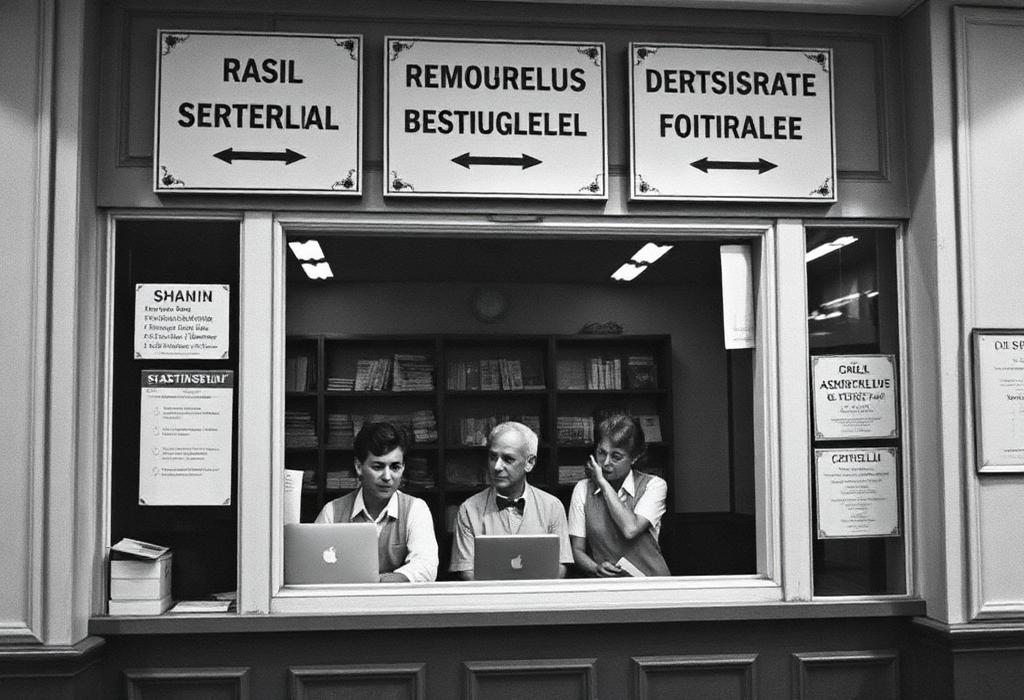
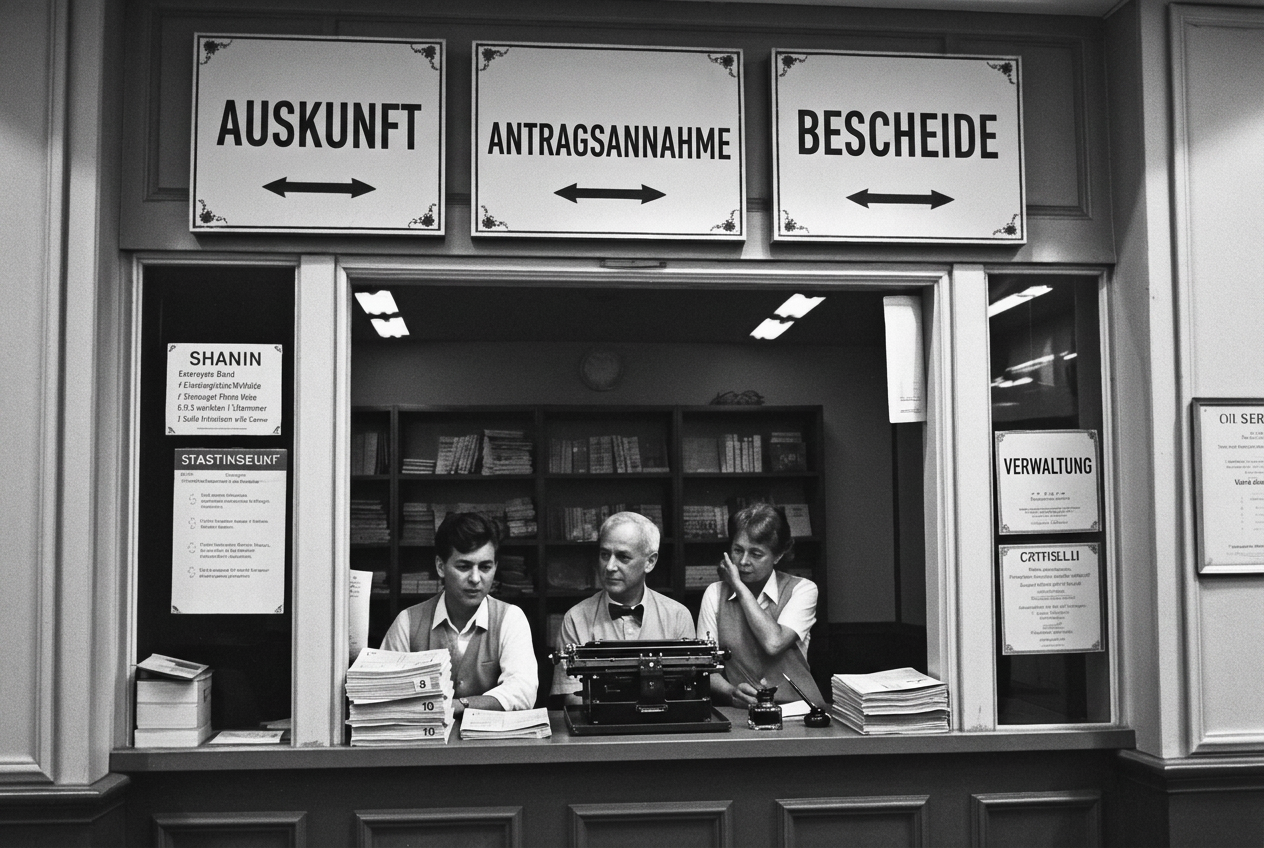
Changes

diff --git a/src/game/books/libraryBooks.ts b/src/game/books/libraryBooks.ts
@@ -21,6 +21,9 @@ import imgWirtMandat from "@/assets/books/wirt-mandat.jpg";
 import imgAutoWankel from "@/assets/books/auto-wankel.jpg";
 import imgAutoSerie72 from "@/assets/books/auto-serie72.jpg";
 import imgAutoDesign90 from "@/assets/books/auto-design90.jpg";
+import imgSpracheFormular from "@/assets/books/sprache-formular.jpg";
+import imgSpracheSchalter from "@/assets/books/sprache-schalter.jpg";
+import imgSpracheJugend from "@/assets/books/sprache-jugend.jpg";
 import { registerBook, type BookUiText } from "./index";
 
 const LIBRARY_UI_TEXT: BookUiText = {
@@ -557,6 +560,98 @@ registerBook({
   blurb:
     "Wie der Rotationskolbenmotor vom Sorgenkind zum Weltstandard wurde: Keramik-Dichtleisten, Schichteinspritzung, die Ölkrise als Rückenwind — und was kleine Motoren mit Karosserien anstellen.",
   chapters: autoChapters,
+  uiText: LIBRARY_UI_TEXT,
+  locationHint: "Bewohnerbibliothek 1101, Gebäude E71",
+  lendable: true,
+});
+
+const spracheChapters: HandbookChapter[] = [
+  {
+    id: "spr-vorwort",
+    shortTitle: "Vorwort",
+    title: "Vorwort: Eine Sprache, die aus Formularen kommt",
+    body: [
+      "Sprachen entstehen selten dort, wo man sie vermutet. Nicht in Gedichten, nicht auf Bühnen, nicht in Schulen. Das Deutsch, das im Mandatsgebiet gesprochen wird, ist an Schaltern entstanden, in Wartebereichen, in Kopierstellen und in Aktenkellern.",
+      "Man nennt es Mandatsdeutsch. Der Ausdruck war lange spöttisch gemeint. Ich verwende ihn ohne Spott. Was hier gewachsen ist, hat eine eigene Grammatik, ein eigenes Wortfeld und einen eigenen Höflichkeitsapparat, und es funktioniert.",
+      "Dieses Buch beschreibt, was gesprochen wird, nicht was gesprochen werden sollte. Wer eine Empfehlung sucht, welche Wendung korrekt sei, wird enttäuscht sein. Ich verzeichne, ich urteile nicht.",
+    ],
+  },
+  {
+    id: "spr-herkunft",
+    image: imgSpracheSchalter,
+    imageCaption: "Abb. 1 — Schalterhalle einer Bezirksstelle, um 1957",
+    shortTitle: "Herkunft",
+    title: "Kapitel I: Vier Amtssprachen an einem Tresen",
+    body: [
+      "Nach der Einrichtung der Verwaltung arbeiteten in denselben Häusern Beamte aus vier Sprachräumen nebeneinander. Vorschriften wurden in mehreren Fassungen ausgegeben, Vordrucke aber nur einmal gedruckt — und zwar in der Sprache, die vor Ort am meisten Leute lasen.",
+      "Deutsch wurde so zur Trägersprache des Schriftverkehrs. Die Begriffe darin kamen aus allen vier Verwaltungen. Wer ein Formular ausfüllte, übernahm die Wörter, die darauf standen, ohne sie zu übersetzen. Nach zwei Jahrzehnten sprachen die Leute so.",
+      "Der Sprachwandel verlief deshalb ungewöhnlich: nicht von der Straße in die Ämter, sondern von den Ämtern auf die Straße.",
+    ],
+  },
+  {
+    id: "spr-lehnwoerter",
+    image: imgSpracheFormular,
+    imageCaption: "Abb. 2 — Vordruck mit Feldbezeichnungen, Bezirksdruckerei",
+    shortTitle: "Lehnwörter",
+    title: "Kapitel II: Woher die Wörter stammen",
+    body: [
+      "Aus dem Französischen stammen die Wörter der Ordnung und der Zuständigkeit: das Ressort, die Instanz, das Dossier, das Bureau, die Kontrolle, der Bescheid „en règle“ — im Mandatsdeutsch verkürzt zu „ongregel“, geschrieben meist „in Regel“.",
+      "Aus dem Russischen kamen die Wörter der Zuteilung und des Bestands: das Kontingent (kontingjent, betont auf der letzten Silbe), der Naryad — der Zuteilungsschein —, und das verbreitete „Sprawka“ für jede Bescheinigung, die man vorlegen muss, um eine andere zu bekommen.",
+      "Aus dem Englischen kamen die Wörter der Abläufe: der Vorgang heißt in vielen Häusern schlicht „Case“, die Bearbeitungsspur „Track“, der abgeschlossene Fall ist „gecleart“.",
+      "Kaum jemand empfindet diese Wörter noch als fremd. „Reich mir mal die Sprawka“ sagt man auch zu Hause, wenn der Impfnachweis gemeint ist.",
+    ],
+  },
+  {
+    id: "spr-grammatik",
+    shortTitle: "Grammatik",
+    title: "Kapitel III: Die Grammatik der Unzuständigkeit",
+    body: [
+      "Auffälliger als die Wörter ist der Satzbau. Mandatsdeutsch vermeidet den Handelnden. Nicht „ich lehne ab“, sondern „es ergeht Ablehnung“. Nicht „Sie haben etwas vergessen“, sondern „die Unterlage liegt nicht vor“.",
+      "Man kann das für Feigheit halten. Zutreffender ist: Der Sprecher am Schalter hat den Bescheid nicht gefasst und kann ihn nicht ändern. Die Sprache bildet diese Lage genau ab.",
+      "Daraus folgt eine zweite Eigenart, die Fremde regelmäßig irritiert: die dreistufige Höflichkeit. „Das wäre möglich“ heißt: es geht. „Das ließe sich prüfen“ heißt: es geht wahrscheinlich nicht, aber Sie dürfen einen Antrag stellen. „Das ist nicht vorgesehen“ heißt: hören Sie auf.",
+      "Wer diese drei Stufen nicht unterscheidet, verbringt Jahre in Wartebereichen.",
+    ],
+  },
+  {
+    id: "spr-jugend",
+    image: imgSpracheJugend,
+    imageCaption: "Abb. 3 — Jugendliche vor einem Wohnblock, Sektor 14",
+    shortTitle: "Jugend",
+    title: "Kapitel IV: Was die Jungen daraus machen",
+    body: [
+      "Die Kinder derer, die das Mandatsdeutsch am Schalter lernten, sprechen es lockerer und respektloser. Sie verwenden dieselben Wörter, aber im Alltag und mit umgekehrtem Vorzeichen.",
+      "„Bist du in Regel?“ heißt: Geht es dir gut? „Ich hab keine Sprawka dafür“ heißt: Ich kann es nicht beweisen, glaub es einfach. Und wer jemanden abweisen will, sagt „nicht vorgesehen“ und lacht dabei.",
+      "Besonders produktiv ist die Vorsilbe „an-“ aus dem Formularwesen: anmelden, anzeigen, anhören — daraus wurde „anquatschen“ für ein Gespräch, das man ohne Termin beginnt, und „angeben“ im Sinne von: jemandem etwas erzählen, das im Protokoll schlecht aussähe.",
+      "Die Verwaltung hat, ohne es zu wollen, den Jargon einer ganzen Generation geliefert.",
+    ],
+  },
+  {
+    id: "spr-anhang",
+    shortTitle: "Anhang",
+    title: "Anhang: Kleines Verzeichnis",
+    body: [
+      "Sprawka — jede Bescheinigung, die Voraussetzung für eine weitere ist.",
+      "Naryad — Zuteilungsschein für Material, Wohnraum, Arbeitszeit.",
+      "Kontingjent — bewilligte Menge innerhalb eines Zeitraums.",
+      "Case — Vorgang; das Aktenzeichen heißt „Casenummer“, auch schriftlich.",
+      "in Regel — formal einwandfrei; umgangssprachlich auch: gesund, in Ordnung.",
+      "Dossier — Sammelakte zu einer Person oder Sache.",
+      "es ergeht — unpersönliche Form für jede Entscheidung, die zugestellt wird.",
+      "nicht vorgesehen — höchste Ablehnungsstufe; kein Widerspruch erwartet.",
+      "vorbehaltlich — der häufigste Bestandteil aller Zusagen im Mandatsgebiet.",
+    ],
+  },
+];
+
+registerBook({
+  id: "mandatsdeutsch",
+  title: "Mandatsdeutsch — Wie am Schalter eine Sprache entstand",
+  subtitle: "Dr. phil. A. Ternes · 1993 · Bewohnerbibliothek E71",
+  author: "Dr. phil. A. Ternes",
+  year: "1993",
+  blurb:
+    "Eine Sprachbeschreibung des Verwaltungsdeutschen: woher seine Lehnwörter stammen, warum es den Handelnden vermeidet und was Jugendliche heute daraus machen.",
+  chapters: spracheChapters,
   uiText: LIBRARY_UI_TEXT,
   locationHint: "Bewohnerbibliothek 1101, Gebäude E71",
   lendable: true,

diff --git a/src/game/libraryE71Books.ts b/src/game/libraryE71Books.ts
@@ -81,6 +81,16 @@ export const LIBRARY_BOOKS: LibraryBook[] = [
     itemId: "buchDrehendeDreieck",
     itemName: "Das drehende Dreieck (Leihbuch)",
   },
+  {
+    id: "mandatsdeutsch",
+    title: "Mandatsdeutsch — Wie am Schalter eine Sprache entstand",
+    author: "Dr. phil. A. Ternes",
+    year: "1993",
+    blurb:
+      "Ternes hat jahrelang in Wartebereichen zugehört. Herausgekommen ist eine Sprachbeschreibung: Sprawka, Naryad, Case, „nicht vorgesehen\" — und warum hier niemand sagt, wer etwas entschieden hat.",
+    itemId: "buchMandatsdeutsch",
+    itemName: "Mandatsdeutsch (Leihbuch)",
+  },
 ];
 
 /** Alle Titel sind ausleihbar — kein Präsenzbestand. */

diff --git a/src/components/game/ItemIcon.tsx b/src/components/game/ItemIcon.tsx
@@ -424,6 +424,7 @@ const ICON_MAP: Record<InventoryItemId, () => React.ReactElement> = {
   buchGespaltenerGeist: E67HandbookIcon,
   buchOrdnungEigentum: E67HandbookIcon,
   buchDrehendeDreieck: E67HandbookIcon,
+  buchMandatsdeutsch: E67HandbookIcon,
 };
 
 /* ─── Akt-I-Pflichträtsel: Zusatz-Icons ─────────────────── */

diff --git a/src/game/types.ts b/src/game/types.ts
@@ -88,7 +88,8 @@ export type InventoryItemId =
   | "buchResonanzhygiene"
   | "buchGespaltenerGeist"
   | "buchOrdnungEigentum"
-  | "buchDrehendeDreieck";
+  | "buchDrehendeDreieck"
+  | "buchMandatsdeutsch";
 
 export type KnowledgeFlag = "responsibilityE67" | "radioOrigin" | "wordControl";
 
